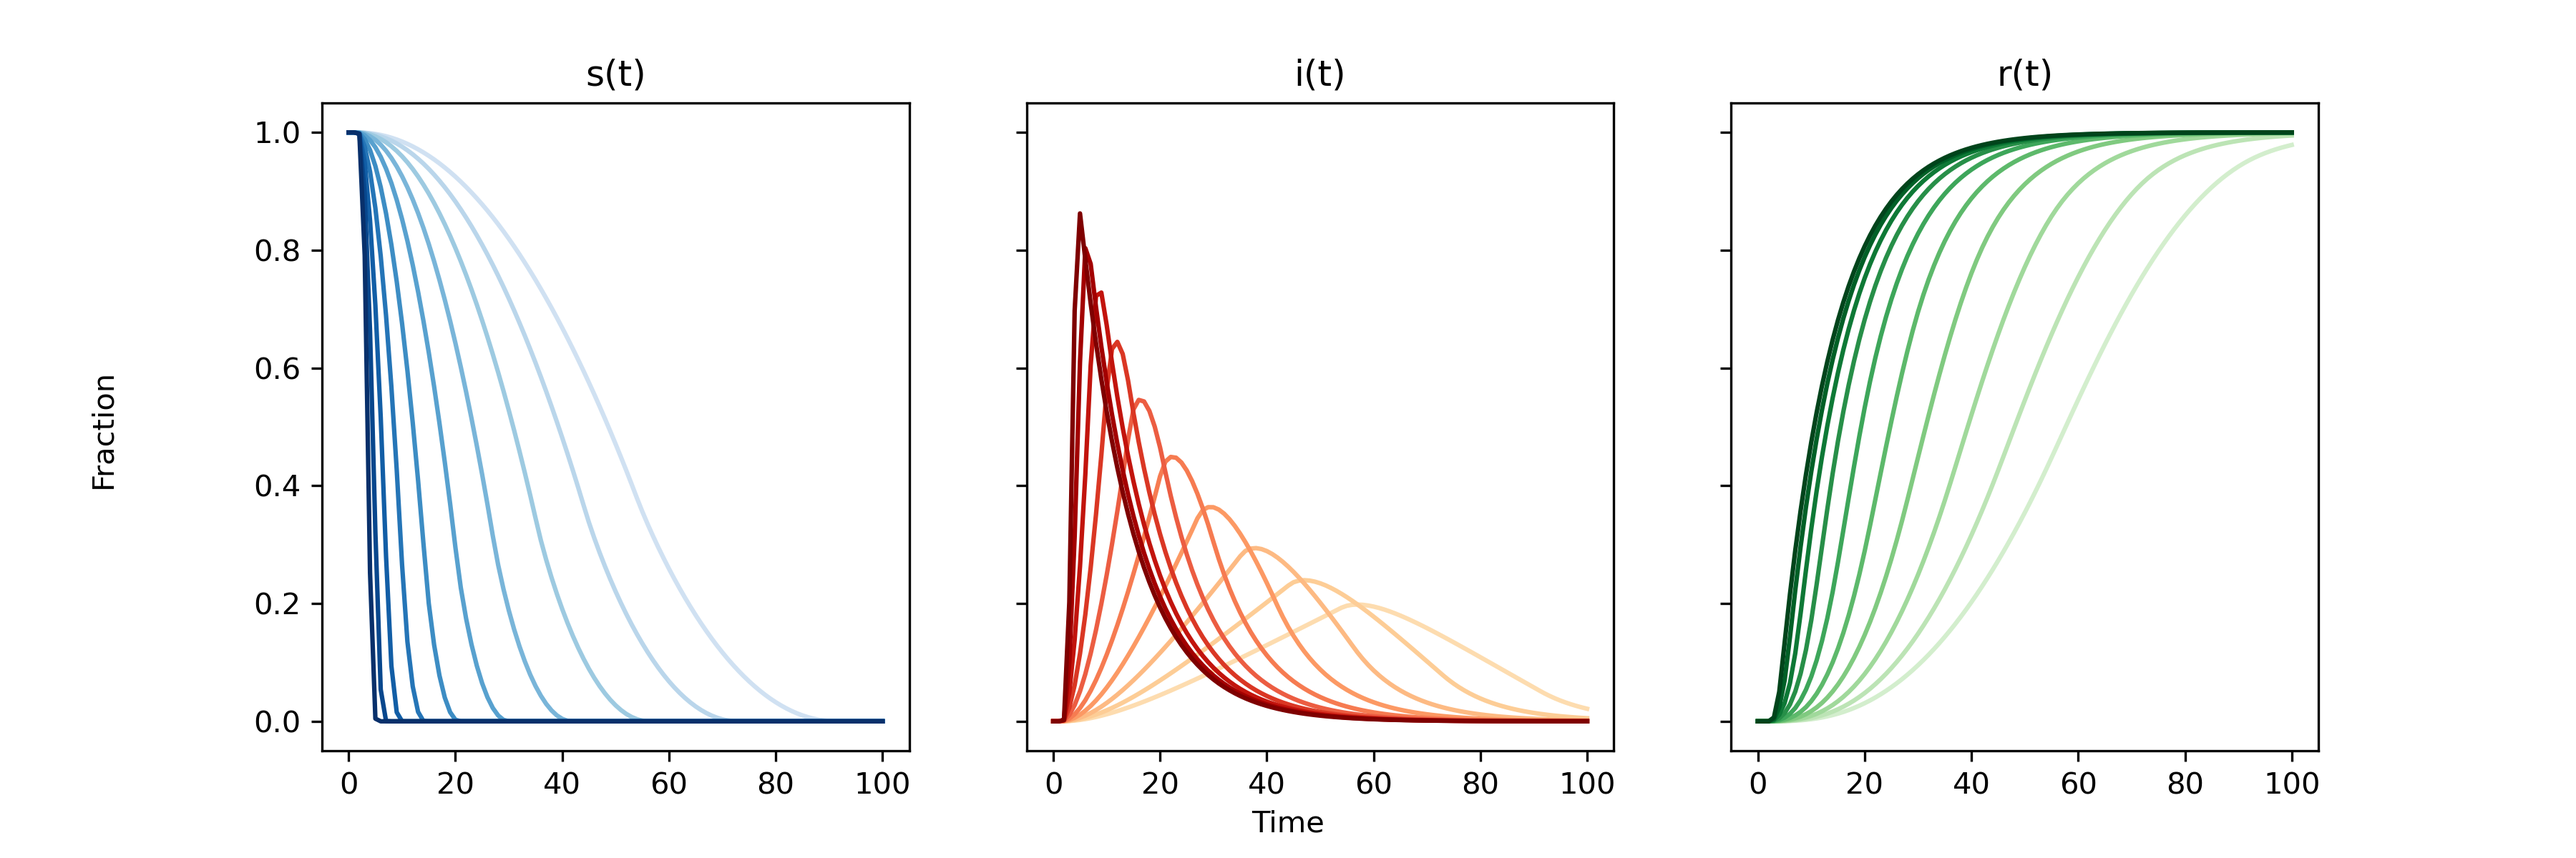
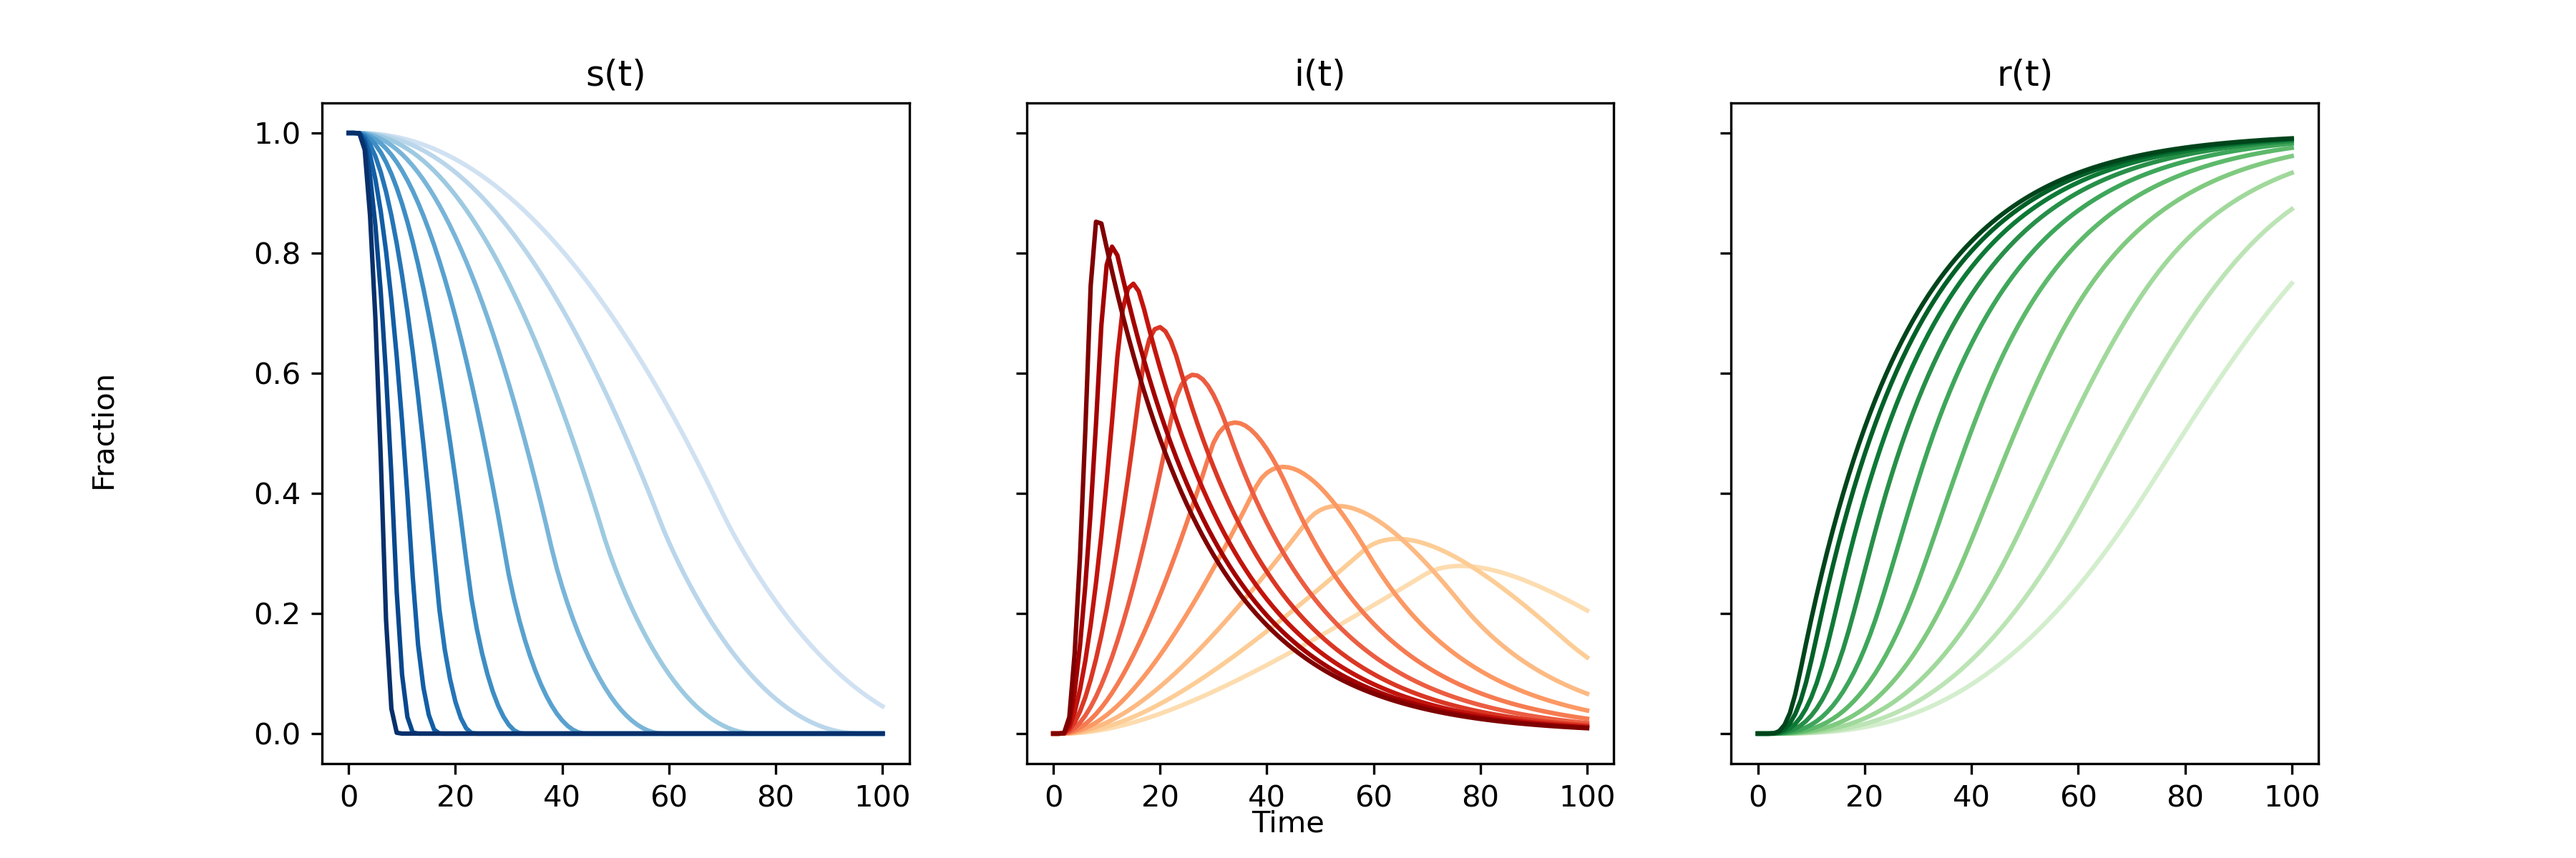
pde plots

diff --git a/scripts/pde_simulation.py b/scripts/pde_simulation.py
@@ -3,32 +3,85 @@ sys.path.append('../sir')
 from pde import *
 
 import numpy as np
+import matplotlib as mpl
 import matplotlib.pyplot as plt
 
 # parameters
-M = 200; i0 = 0.0001; T = 100; b = 7; k = 0.1
+M = 200; i0 = 0.001; T = 100; b = 5; k = 0.05
 
-# interesting p
+# interesting p, starting from center
 pos = (M // 2, M // 2)
-ps = np.logspace(-4, -0.5, 10) / M
+ps = np.logspace(-4, -1, 10) / M
 
 res = []
 for p in ps:
     res.append(pde_model(i0, pos, M, T, b, k, p))
 res = np.asarray(res).mean(axis=(2,3))
 
-
-def plot_lines(ax, df, cmap=mpl.cm.OrRd, start=0.2, end=1):
+def plot_lines(ax, df, title, cmap=mpl.cm.OrRd, start=0.2, end=1):
+    """
+    plot simulated result with various value of f
+    input
+        df: shape (len(fs),T), every row is, e.g. i(t), for certain f
+        cmap: a matplot.cm colormap object, see https://matplotlib.org/3.1.0/tutorials/colors/colormaps.html
+        start, end: scale location in color map
+    """
     cols = [cmap(x) for x in np.linspace(start, end, len(df))]
     for i, col in enumerate(cols):
         ax.plot(df[i,:], c=col)
+    ax.set_title(title)
     return ax
 
+f, ax = plt.subplots(1, 3, figsize=(12,4), sharex='all', sharey='all')
+ax[0] = plot_lines(ax[0], res[:,0,:], "s(t)", mpl.cm.Blues)
+ax[1] = plot_lines(ax[1], res[:,1,:], "i(t)", mpl.cm.OrRd)
+ax[2] = plot_lines(ax[2], res[:,2,:], "r(t)", mpl.cm.Greens)
+f.text(0.5, 0.04, 'Time', va='center', ha='center')
+f.text(0.04, 0.5, 'Fraction', va='center', ha='center', rotation='vertical')
+# plt.savefig("../docs/figs/pde_2d_by_p.png", dpi=300)
 
-f, ax = plt.subplots(1, 3, sharex='all', sharey='all')
-ax[0] = plot_lines(ax[0], res[:,0,:], mpl.cm.Blues)
-ax[1] = plot_lines(ax[1], res[:,1,:], mpl.cm.OrRd)
-ax[2] = plot_lines(ax[2], res[:,2,:], mpl.cm.Greens)
-fig.text(0.5, 0.04, 'Time', va='center', ha='center')
-fig.text(0.04, 0.5, 'Fraction', va='center', ha='center', rotation='vertical')
-plt.savefig('../output/agent_seir_by_f.png', dpi=300)
+
+# timestamp plots
+
+def plot_time(s, i, r, title):
+    
+    def plot_sim(x, ax, color, title=False):
+        ts = [10,20,30,40,50]
+        for i, t in enumerate(ts):
+            ax[i].imshow(x[:,:,t], cmap=color, origin="lower")
+            if title:
+                ax[i].set_title(f"t = {t}")
+    
+    f, ax = plt.subplots(3, 5, figsize=(15,9), sharex=True, sharey=True)
+    plot_sim(s, ax[0,:], color=mpl.cm.Blues, title=True)
+    plot_sim(i, ax[1,:], color=mpl.cm.OrRd)
+    plot_sim(r, ax[2,:], color=mpl.cm.Greens)
+    ax[0,0].set_ylabel("s(t)", fontsize=14)
+    ax[1,0].set_ylabel("i(t)", fontsize=14)
+    ax[2,0].set_ylabel("r(t)", fontsize=14)
+    f.text(0.5, 0.94, "Change of s(t), i(t), r(t). Starting from " + title,
+           va='center', ha='center', fontsize=16)
+
+p = 0.001 / M
+
+# center
+pos = (M // 2, M // 2)
+s, i, r = pde_model(i0, pos, M, T, b, k, p)
+plot_time(s, i, r, "center")
+# plt.savefig("../docs/figs/pde_2d_time_center.png", dpi=500)
+
+# corner
+pos = (0, 0)
+s, i, r = pde_model(i0, pos, M, T, b, k, p)
+plot_time(s, i, r, "corner")
+# plt.savefig("../docs/figs/pde_2d_time_corner.png", dpi=500)
+
+# random
+pos = (np.random.randint(20, M-20), np.random.randint(20, M-20))
+s, i, r = pde_model(i0, pos, M, T, b, k, p)
+plot_time(s, i, r, "random place")
+# plt.savefig("../docs/figs/pde_2d_time_random.png", dpi=500)
+
+
+
+
